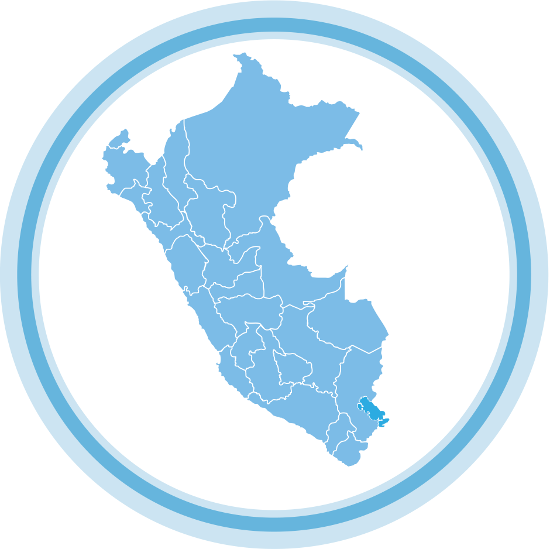
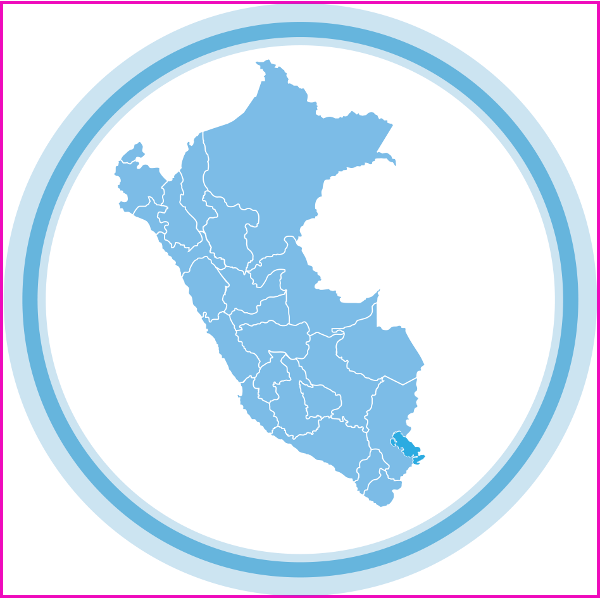
test svg

diff --git a/mapa.html b/mapa.html
@@ -1,0 +1,27 @@
+<html>
+    <head>
+        <title></title>
+    </head>
+    <body>
+
+        <img src="public/image/peru.jpg" usemap="#Teaser" alt="" />
+        <!--<map name="Teaser" id="Teaser">
+           <area alt="" href="#" coords="x1,y1,x2,y2" shape="rect" />
+           <area alt="" href="#" coords="x1,y1,x2,y2,x3,y3 [...] " shape="poly" />
+           <area alt="" href="#" coords="x1,y1,radius" shape="circle" />
+        </map>-->
+        <map name="Teaser" id="Teaser">
+            <area alt="" title="loreto" href="#" shape="poly" onmouseout="mouse(this)" coords="164,125,169,153,172,161,172,166,172,171,173,180,172,183,168,187,165,193,165,203,168,209,170,213,172,217,178,219,181,225,191,226,196,227,198,232,202,237,205,239,214,239,220,237,222,240,225,244,228,245,235,245,238,245,244,246,251,249,253,255,252,264,249,268,245,272,240,271,234,269,231,273,234,279,231,284,229,287,232,293,233,298,235,303,237,310,241,314,244,317,242,325,238,328,235,332,234,336,233,343,237,342,245,338,249,335,250,332,253,329,258,323,265,320,274,320,276,316,282,316,292,314,294,307,296,299,293,293,295,288,301,287,308,289,310,294,315,287,319,281,320,272,330,259,343,257,346,250,342,236,346,226,351,223,350,215,358,199,363,197,371,191,382,185,389,183,392,180,423,170,429,172,435,167,447,164,457,164,458,166,465,170,469,175,466,167,461,163,456,160,449,157,443,156,439,157,465,111,456,105,445,101,437,97,431,92,419,98,409,98,403,95,399,92,392,97,390,102,382,102,357,102,350,101,342,96,343,89,344,84,344,81,339,74,328,75,328,67,321,55,316,53,312,51,304,49,298,46,297,40,297,29,288,22,278,22,274,18,267,11,265,12,252,15,248,12,253,20,257,25,263,29,265,32,260,33,263,43,257,44,250,64,249,69,244,68,229,95,217,102,203,111,196,114" />
+            <area alt="" title="dos" href="#" shape="poly" coords="54,168,61,161,66,163,74,158,68,150,66,141,61,139,53,150,41,159,34,164,37,168,40,170,46,170,51,171" />
+            <area alt="" title="tres" href="#" shape="poly" style="border:1px solid red; background-color:gray" coords="106,199,97,208,96,212,99,225,100,228,99,234,97,237,90,235,87,232,82,227,78,226,75,227,78,233,74,236,70,240,62,241,57,244,52,253,43,249,38,246,33,242,32,231,41,234,46,225,41,220,32,211,30,208,34,201,33,194,28,191,23,189,26,182,27,176,32,169,35,171,47,174,55,170,61,172,58,177,60,181,68,179,75,174,81,182,89,179,96,180,94,184,95,189" />
+            [...]
+        </map>
+
+    <script type="text/javascript" charset="utf-8">
+        function mouse(dom) {
+            console.log('dom', dom);
+            dom.style.border='1px solid red'
+        }
+    </script>
+    </body>
+</html>

diff --git a/svg.1.html b/svg.1.html
@@ -1,0 +1,45 @@
+<html>
+<head>
+	<title></title>
+</head>
+<body>
+<style type="text/css">
+div {
+  background: tomato;
+  display: inline-block;
+  width: 100px;
+  height: 100px;
+  border: 30px solid;
+  border-color: orange black;
+  transition: linear 1s;
+}
+.uno {  
+  clip-path: polygon(50% 0%, 100% 100%, 0% 100%);
+}
+.uno:hover {
+  clip-path: polygon(0% 0%, 100% 0%, 50% 100%)
+}
+.dos {  
+  clip-path: polygon(50% 0%, 50% 0%, 100% 100%, 0% 100%);
+}
+.dos:hover {
+  clip-path: polygon(0% 0%, 100% 0%, 50% 100%, 50% 100%)
+}
+</style>
+
+<div class='uno'></div>
+<div class='dos'></div>
+
+<svg width="0" height="0">
+  <defs>
+	<clipPath id="clip-triT" clipPathUnits="objectBoundingBox">
+	  <polygon points=".5 0, .5 0, 1 1, 0 1" />
+	</clipPath>
+	<clipPath id="clip-triB" clipPathUnits="objectBoundingBox">
+	  <polygon points="0 0, 1 0, .5 1, .5 1" />
+	</clipPath>
+  </defs>
+</svg>
+</body>
+</html>
+

diff --git a/public/css/style.css b/public/css/style.css
@@ -97,3 +97,8 @@
 .imageDownload {
     margin-bottom:10px;
 }
+
+.red {
+  border:1px solid red;
+
+}

diff --git a/mapa-svg.php b/mapa-svg.php
@@ -1,0 +1,15 @@
+<div style="width: 100%">
+	<svg xmlns="http://www.w3.org/2000/svg" version="1.1" viewBox="0 0 1000 1000"
+		style="background-color:blue">
+
+    <!-- SVG content -->
+    <image xlink:href="public/image/peru-mapa.png" x="20" y="0" height="80%" width="80%"/>
+
+    <path
+       style="fill:none;stroke:#000000;stroke-width:1px;stroke-linecap:butt;stroke-linejoin:miter;stroke-opacity:1"
+       d="m 307.38525,197.29415 c -4.14126,3.72761 0.46078,8.64967 1.38392,13.4375 1.32131,4.91612 1.13629,10.64263 4.28572,10.53571 0.77726,4.65893 0.13169,11.07146 -0.78405,15.04864 -7.16574,2.37004 -4.06589,17.58172 -1.56471,18.59055 6.59796,2.66124 4.34672,5.43743 6.14055,7.88945 1.87615,2.56452 1.87456,2.7724 11.40034,2.3451 1.98662,-0.0891 0.81619,6.93701 3.73502,6.80826 0.50251,-0.0222 0.82505,3.63834 3.81232,4.11457 3.3998,0.54199 9.95611,-2.10957 10.16231,-2.118 0.2062,-0.008 1.39842,6.7266 9.14236,2.92287 3.26775,-1.60508 9.48984,2.47059 10.51598,5.81652 1.59397,5.19739 -1.59148,10.77211 -0.48335,13.96214 1.00995,2.90742 -16.2268,-5.17069 -13.63194,-1.12774 0.95722,1.49142 1.21861,4.79097 3.23154,7.26517 1.16477,1.4317 -5.00171,3.66008 -2.94493,5.16151 1.85191,1.35187 0.95516,12.20454 3.92436,13.2246 2.74343,0.94249 3.63937,4.94838 5.16958,7.26024 0.87564,1.32293 -4.96937,8.81836 -4.14212,7.12751 1.98784,-4.06308 -5.41781,6.07176 -3.01378,7.99816 3.64221,2.91859 5.48124,0.10332 7.97119,-2.59674 1.35557,-1.46996 2.74953,-1.73822 4.13293,-3.54878 0.54476,-0.71298 3.05218,2.83346 3.59068,2.07613 0.60955,-0.85725 -1.66191,-5.16966 -1.10103,-6.13202 1.61608,-2.77285 4.54045,-2.24775 6.62873,-4.41687 2.13604,-2.21874 6.70033,0.57617 7.34197,-1.92445 0.63361,-2.46933 12.90772,1.23108 12.11024,-1.61604 -0.12154,-0.4339 1.2339,-2.35785 2.48292,-8.1831 0.52094,-2.42959 -2.67557,-5.02738 -2.1487,-7.96327 0.16646,-0.92752 9.09734,-0.97892 9.28849,-1.93391 0.36117,-1.80446 3.45241,7.40751 3.57608,5.53822 0.12116,-1.83134 0.96033,-3.76034 0.76881,-6.01888 -0.0648,-0.7639 3.42266,0.95424 3.32131,0.15935 -0.3041,-2.3851 -3.62373,-6.00944 -1.69828,-7.98827 4.5815,-4.70851 5.85827,-5.53649 6.41778,-8.42845 0.27178,-1.40477 13.39378,-4.63739 13.0251,-5.78217 -0.76193,-2.36586 -3.14502,-9.3629 -5.70678,-14.08784 -0.76835,-1.41714 11.92009,-6.61963 10.3891,-6.87374 -1.61883,-0.26868 1.28657,-11.20473 2.09194,-15.99326 0.22116,-1.31496 10.87139,-4.16962 12.22273,-5.47389 4.06008,-3.91867 12.47252,-5.66435 14.71414,-8.84342 1.84434,-2.61563 24.48562,-3.23397 25.19302,-5.43931 5.05237,-15.75103 -37.10111,-23.1507 -37.59093,-23.30826 -19.13484,-6.1553 -28.05033,-4.11568 -27.11057,-4.31415 13.94876,-6.10826 -21.50405,9.30153 -24.91071,6.24999 -6.84617,-4.09205 -86.30313,-11.74713 -91.33928,-9.41963 z"
+       id="path3119"
+       inkscape:connector-curvature="0"
+       sodipodi:nodetypes="ccccssssszsssssssssssssssssssssssssssssssssccc" />
+</svg>
+</div>

diff --git a/index.php b/index.php
@@ -40,8 +40,16 @@
                         </ul>
                     </div>
                     <div class="col-md-6  pull-right">
+<!--
                         <img src="public/image/peru-mapa.png" />
+
+                        <hr>
+-->
                     </div>
+                </div>
+
+                <div class="row" style="max-width:800px">
+                    <?php require_once 'mapa-svg.php' ?>
                 </div>
             </div>
             <div class="footer container">
